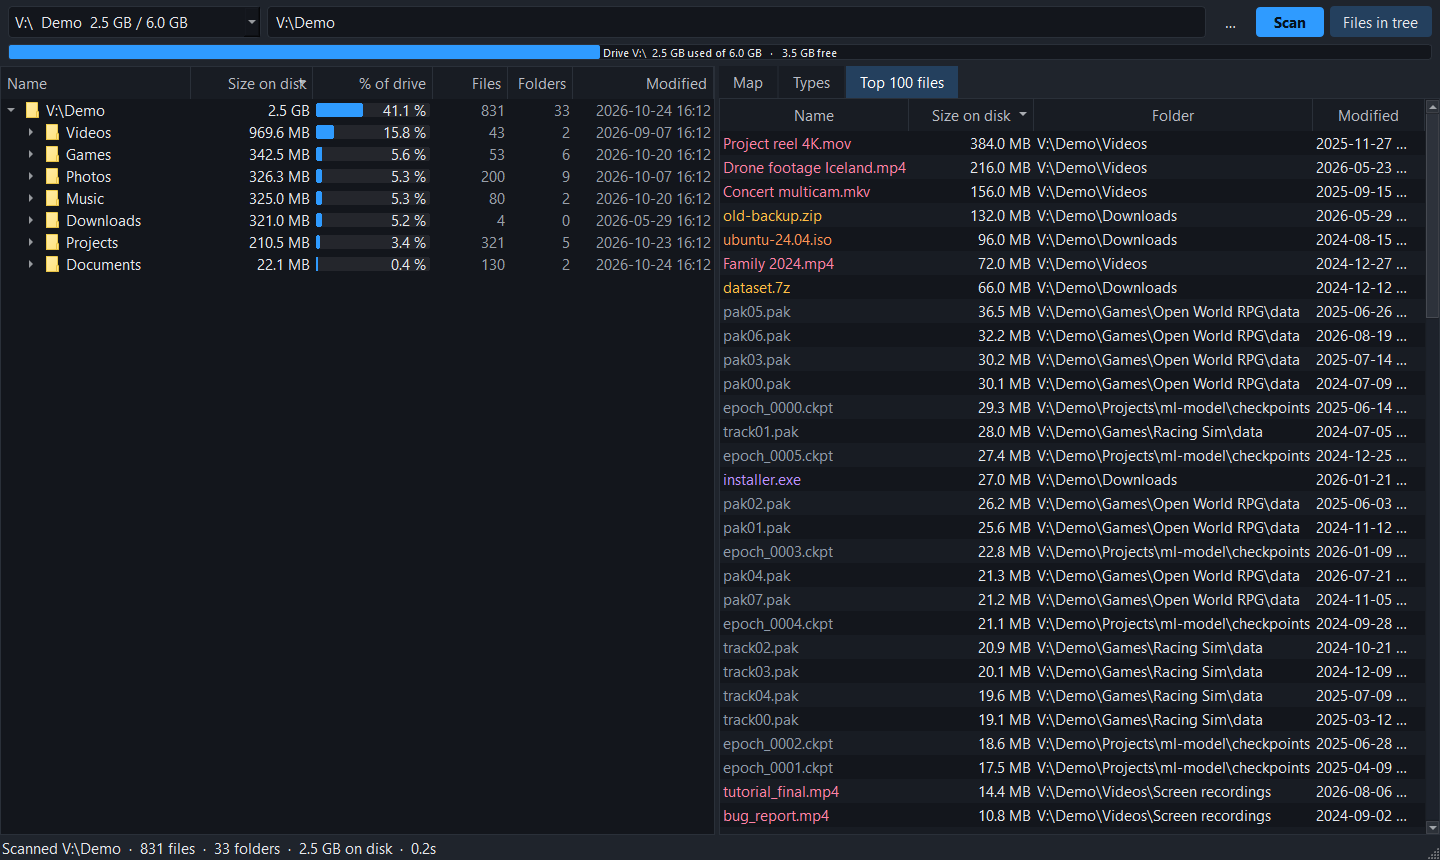
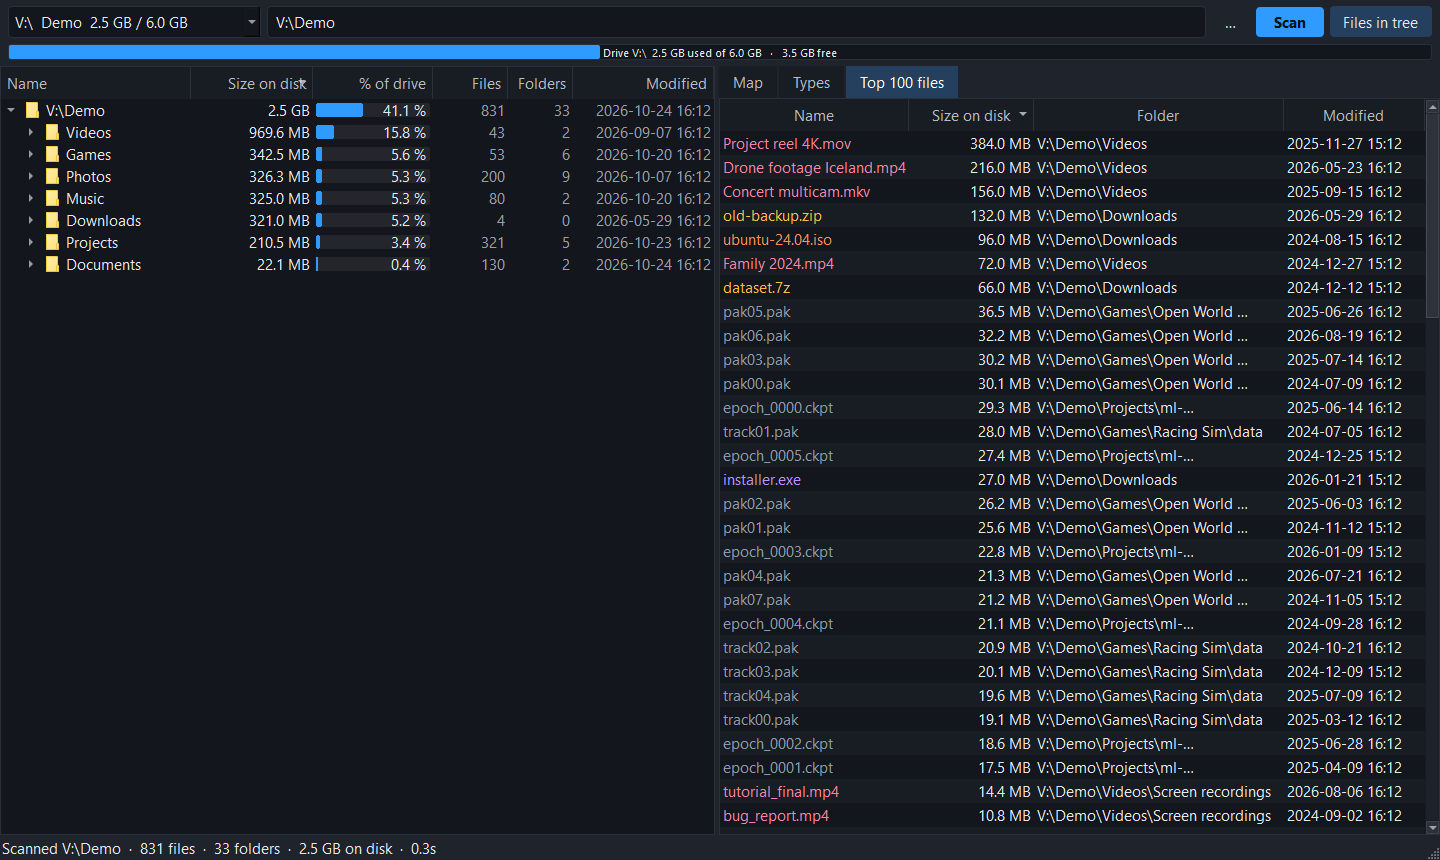
Top 100 table shows a whole Modified date; empty_bin clears cut records
- The Top 100 table's Folder column takes what is left after Modified has room for
  a whole date, the Name column is capped at 45% of the table, and the width of the
  vertical scrollbar of a long table is kept free: no "2025-11-27 ..." and no sideways
  scroll. Two tests (a very long path; 100 rows); screenshots retaken.
- empty_bin also removes cut-short $I records, so a killed test can't make the next
  test's strict Recycle Bin read raise.

Changed region(s): [[0.8125, 0.1209, 0.9688, 0.9674], [0.7812, 0.1209, 0.8438, 0.1512]]

diff --git a/tests/app/test_list_view.py b/tests/app/test_list_view.py
@@ -133,6 +133,31 @@ def test_a_saved_narrow_modified_column_is_widened_to_a_whole_date(make_window):
     assert make_window().tree.columnWidth(bf.C_MOD) == need + 50
 
 
+def test_the_top_100_table_shows_a_whole_modified_date(window, work):
+    deep = os.path.join(work, "a_long_folder_name_for_the_projects_" * 2, "and_another_long_one_below_it" * 2)
+    h.make_tree(deep, {"quite_a_long_file_name_for_a_big_video_file.mov": 5000, "x.bin": 100})
+    h.scan(window, work)
+    window.tabs.setCurrentIndex(2)
+    h.pump(100)
+    t = window.top
+    assert t.rowCount() == 2
+    date = bf.fdate(1700000000)
+    # the Modified column starts early enough for a whole date to fit inside the table's viewport
+    assert t.columnViewportPosition(3) + t.fontMetrics().horizontalAdvance(date) <= t.viewport().width()
+    widths = [t.columnWidth(c) for c in range(4)]
+    assert t.horizontalScrollBar().maximum() == 0, (widths, sum(widths), t.viewport().width())  # nothing sideways
+
+def test_a_long_top_100_table_has_no_sideways_scroll_either(window, work):
+    h.make_tree(work, {f"file_number_{i:03d}.bin": 1000 + i for i in range(120)})
+    h.scan(window, work)
+    window.tabs.setCurrentIndex(2)
+    h.pump(150)
+    t = window.top
+    assert t.rowCount() == 100 and t.verticalScrollBar().isVisible()
+    assert t.horizontalScrollBar().maximum() == 0
+    assert t.columnViewportPosition(3) + t.fontMetrics().horizontalAdvance(bf.fdate(1700000000)) <= t.viewport().width()
+
+
 def test_default_sort_is_size_descending_and_folders_are_not_forced_first(listed):
     w, _ = listed
     assert names(w) == ["z.bin", "mid", "a.bin", "tiny"]

diff --git a/bigfoot.py b/bigfoot.py
@@ -1474,7 +1474,15 @@ class Window(QMainWindow):
             t.setSortingEnabled(True)
             t.sortItems(1, Qt.DescendingOrder)
             t.resizeColumnsToContents()
-            t.setColumnWidth(2, min(t.columnWidth(2), 420))
+            # the Folder column takes what is left once Modified has room for a whole date (never cut at "16:...")
+            vw = t.viewport().width()
+            if not t.verticalScrollBar().isVisible():  # (a long table is about to get one: keep its width free)
+                vw -= t.style().pixelMetric(QStyle.PM_ScrollBarExtent, None, t)
+            t.setColumnWidth(0, min(t.columnWidth(0), int(vw * 0.45)))  # (a very long file name must not push the rest out)
+            mod = max(t.columnWidth(3), self.mod_col)
+            room = vw - t.columnWidth(0) - t.columnWidth(1) - mod
+            t.setColumnWidth(2, max(120, min(t.columnWidth(2), 420, room)))
+            t.setColumnWidth(3, mod)
 
     def top_menu(self, pos):
         rows = sorted({i.row() for i in self.top.selectedIndexes()})

diff --git a/tests/app/helpers.py b/tests/app/helpers.py
@@ -489,6 +489,7 @@ def restore(path):
 def empty_bin():
     subprocess.run(["powershell", "-NoProfile", "-Command", "Clear-RecycleBin -Force -ErrorAction SilentlyContinue"],
                    capture_output=True)
+    remove_broken_records()  # (a cut-short record left by a killed test must not trip the next test's strict reads)
 
 
 def make_vhd(path, size_mb):
